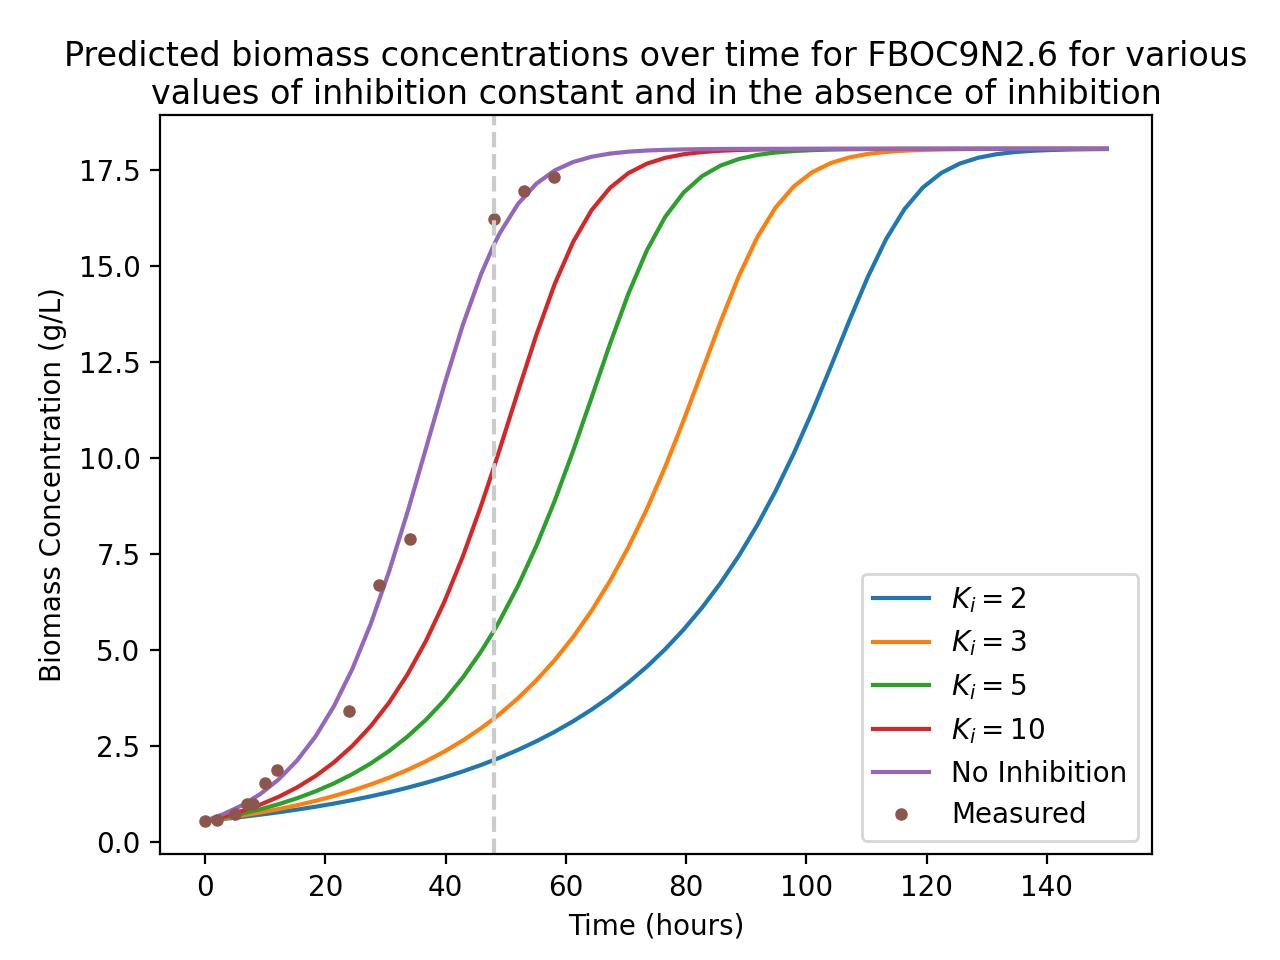
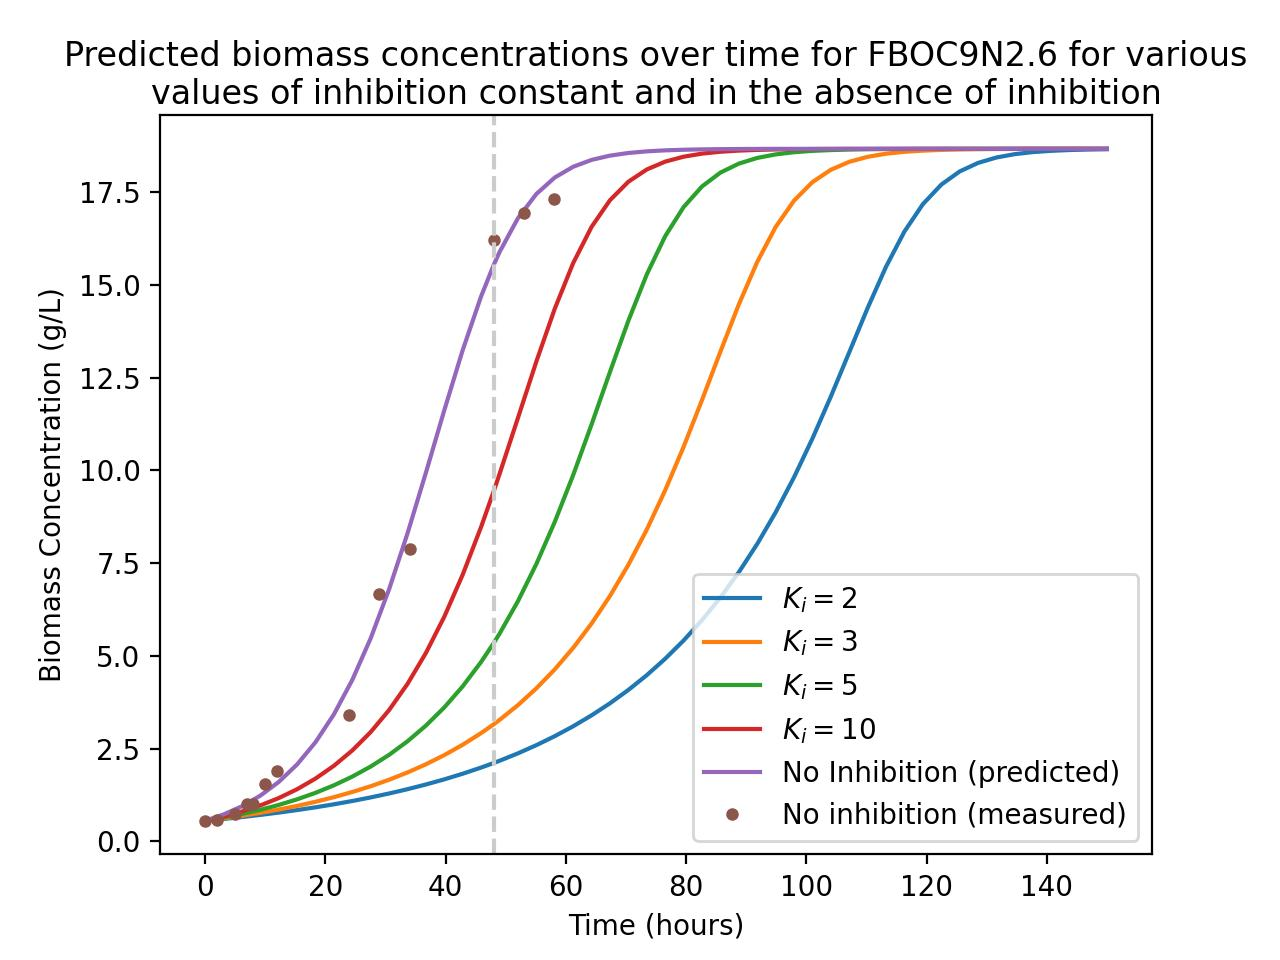
Add product and zero inhibition curves to model 3

diff --git a/3_FBOC9N2_6.py b/3_FBOC9N2_6.py
@@ -2,11 +2,17 @@
 Microbial growth model for FBOC9N2.6
 including inhibition dynamics based on Haldane's equation
 '''
+
+##############################################################################
+
 import matplotlib.pyplot as plt
 import numpy as np
 from scipy.integrate import odeint
 from lmfit import Parameters, fit_report, minimize
-from control import fit_report_toggle
+from control import fit_report_toggle, show_fig
+from inhibition import plot_inhibition_curves, haldane_with_products, monod
+
+##############################################################################
 
 mic_name = 'FBOC9N2.6'
 print( '\n'*2, 'Summary of params used for species ', mic_name)
@@ -17,61 +23,41 @@ Xy = np.array([0.55, 0.56, 0.74, 0.99, 1.00, 1.53, 1.88, 3.41, 6.68, 7.88, 16.22
 X0 = Xy[0] #0.04 #g/L
 S0 = 10 #g/L # check glycerol
 P0 = 0 #g/
+b0 = [X0, S0, P0]
 
 umax = 0.2 #/h
 Ks = 18.35 #19.8 #g/L
 Yxs = 0.212 # 0.047 #0.71#0.0732
+Yps = 0.6
 
 params = Parameters()
 params.add('umax', value= umax, min=0, vary=False)
 params.add('Ks', value= Ks, min=0, vary=True)
 params.add('Yxs', value= Yxs, min=0, vary=True)
+params.add('Yps', value= Yps, min=0, vary=True)
 
-
-def CONTOIS(f,t, umax, Ks, Yps, Yxs):
-    X = f[0]
-    S = f[1]
-    P = f[2]
-
-    u = umax*(S/(Ks*X+S))
-    #u = umax*(S/(Ks+S))
-    ddt0 = u*X #dXdt
-    ddt1 = -ddt0/Yxs   #dSdt
-    ddt2 = -ddt1*Yps
-
-    ddt = [ddt0, ddt1, ddt2]
-    return ddt
-
-def MONOD(f, t, umax, Ks, Yxs):
-    X = f[0]
-    S = f[1]
-
-    u = umax*(S/(Ks+S))
-    ddt0 = u*X           # dXdt
-    ddt1 = -ddt0/Yxs    # dSdt     strictly growth associated growth, cell maintenance
-
-    ddt = [ddt0, ddt1]
-    return ddt
+##############################################################################
 
 def regress(params):
     umax = params['umax'].value
     Ks = params['Ks'].value
+    Yps = params['Yps'].value
     Yxs = params['Yxs'].value
 
-    c = odeint(MONOD, b0,tx, args=(umax, Ks, Yxs))
+    c = odeint(monod, b0, tx, args=(umax, Ks, Yps, Yxs))
     cX = c[:, 0]
+
     I = (Xy - cX)**2
     # I = Py - cP
     #weight = [1, 1, 10, 10, 10, 10, 20, 20, 1, 1, 1, 1, 1, 1, 10, 1, 1, 1, 1, 1, 10]
-    weight = [1, 1, 1, 1, 1, 2, 2, 1, 1, 1, 1, 5, 5]
-    I = ((Xy - cX) * weight) ** 2
+    # weight = [1, 1, 1, 1, 1, 2, 2, 1, 1, 1, 1, 5, 5]
+    # I = ((Xy - cX) * weight) ** 2
+    
     return I
 
-b0 = [X0, S0]
-t = np.linspace(1e-5,tx[-1],151)
 
 METHOD = 'Nelder'
-result = minimize(regress,params, method=METHOD)
+result = minimize(regress, params, method=METHOD)
 result.params.pretty_print()
 if fit_report_toggle:
     print(fit_report(result))
@@ -82,12 +68,9 @@ if(fit_data == 1):
     umax = result.params['umax'].value
     Ks = result.params['Ks'].value
     Yxs = result.params['Yxs'].value
+    Yps = result.params['Yps'].value
 
 
-g = odeint(MONOD,b0,t, args=(umax, Ks, Yxs))
-cX = g[:,0]
-cS = g[:,1]
-print(len(tx))
 
 # plt.figure()
 # plt.plot(t,cX,'--r')
@@ -113,28 +96,27 @@ print(len(tx))
 
 # Plot inhibition curves
 
-from inhibition import plot_inhibition_curves, haldane
-from control import show_fig
-
-
 xvline = 48
 times = sorted( np.concatenate( ([xvline], np.linspace(1e-5, 150)) ) )
 Kis = [2, 3, 5, 10]
-args = (umax, Ks, Yxs)
+args = (umax, Ks, Yps, Yxs)
 
-g = odeint(MONOD, b0, times, args=args)
+g = odeint(monod, b0, times, args=args)
 cX_no_inhib = g[:,0] # Biomass concentration
 cS_no_inhib = g[:,1] # Substrate concentration
+cP_no_inhib = g[:,2] # Product concentration
 
+# Plot inhibition curves
 plot_inhibition_curves(
     times,
     b0,
     Kis,
     args,
-    haldane,
+    haldane_with_products,
     mic_name,
     cX_no_inhib=cX_no_inhib,
     cS_no_inhib=cS_no_inhib,
+    cP_no_inhib=cP_no_inhib,
     xvline=xvline,
     show_fig=show_fig,
     cX_measured=Xy,
@@ -142,3 +124,21 @@ plot_inhibition_curves(
     measurement_times=tx
 )
 
+# Plot zero inhibition curves
+Kis = []
+plot_inhibition_curves(
+    times,
+    b0,
+    Kis,
+    args,
+    haldane_with_products,
+    mic_name,
+    cX_no_inhib=cX_no_inhib,
+    cS_no_inhib=cS_no_inhib,
+    cP_no_inhib=cP_no_inhib,
+    xvline=xvline,
+    show_fig=show_fig,
+    cX_measured=Xy,
+    # cS_measured=Sy,
+    measurement_times=tx
+)

diff --git a/1a_PC8R7N2_1.py b/1a_PC8R7N2_1.py
@@ -43,10 +43,7 @@ params.add('Ks', value= Ks, min=0, vary=True)
 params.add('Yxs', value= Yxs, min=0, vary=True)
 params.add('Yps', value= Yps, min=0, vary=True)
 
-
 ##############################################################################
-
-t = np.linspace(1e-5,tx[-1],151)
 
 def regress(params):
     umax = params['umax'].value
@@ -76,11 +73,6 @@ if(fit_data == 1):
     Yxs = result.params['Yxs'].value
     Yps = result.params['Yps'].value
 
-
-# g = odeint(monod, b0,t, args=(umax, Ks, Yps, Yxs))
-# cX = g[:,0]
-# cS = g[:,1]
-# print(len(tx))
 
 
 # plt.figure()
